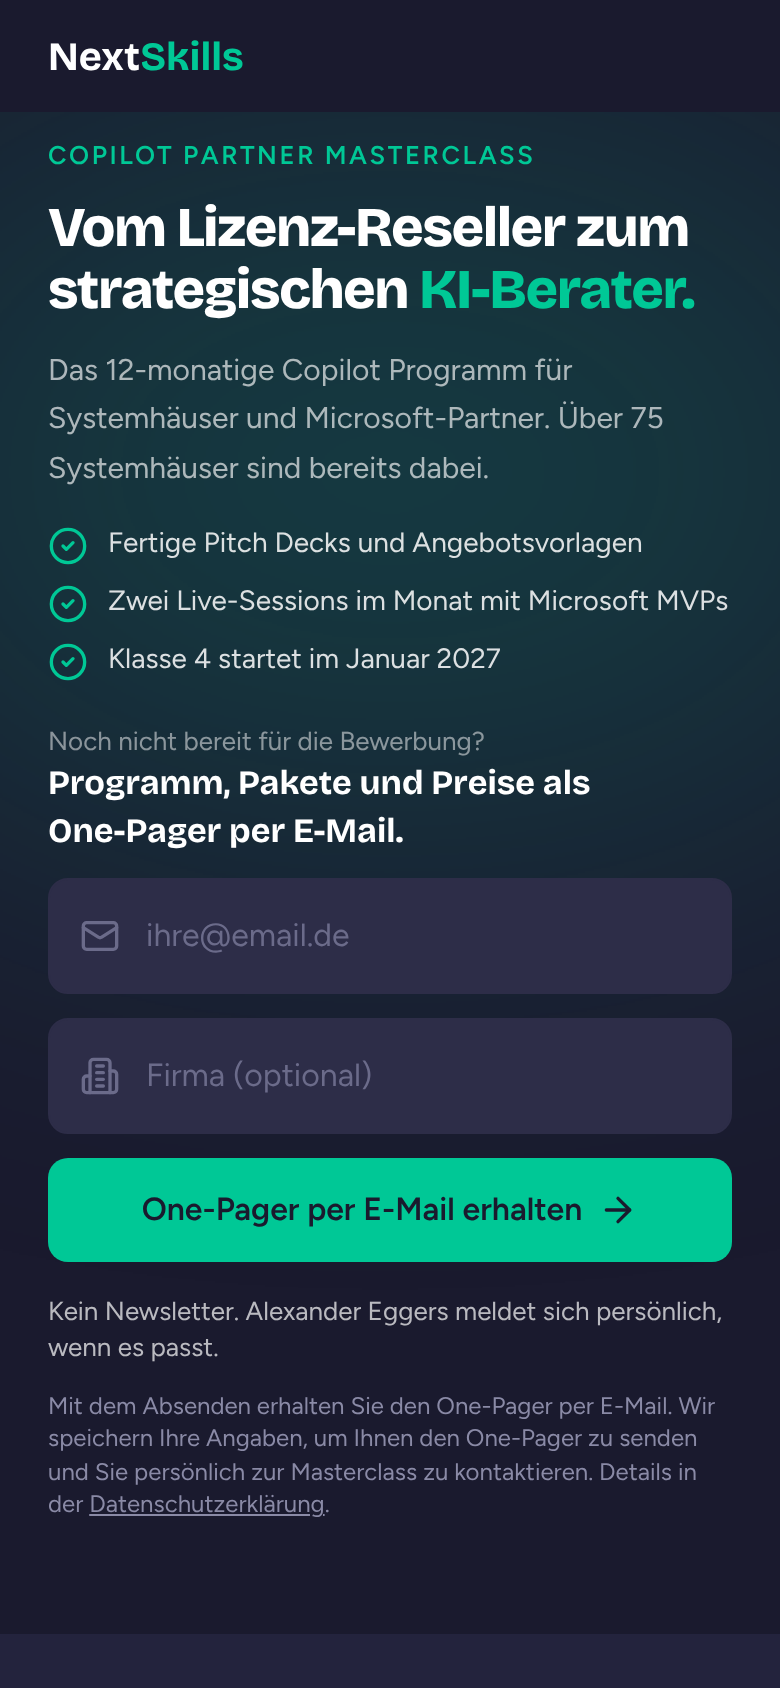
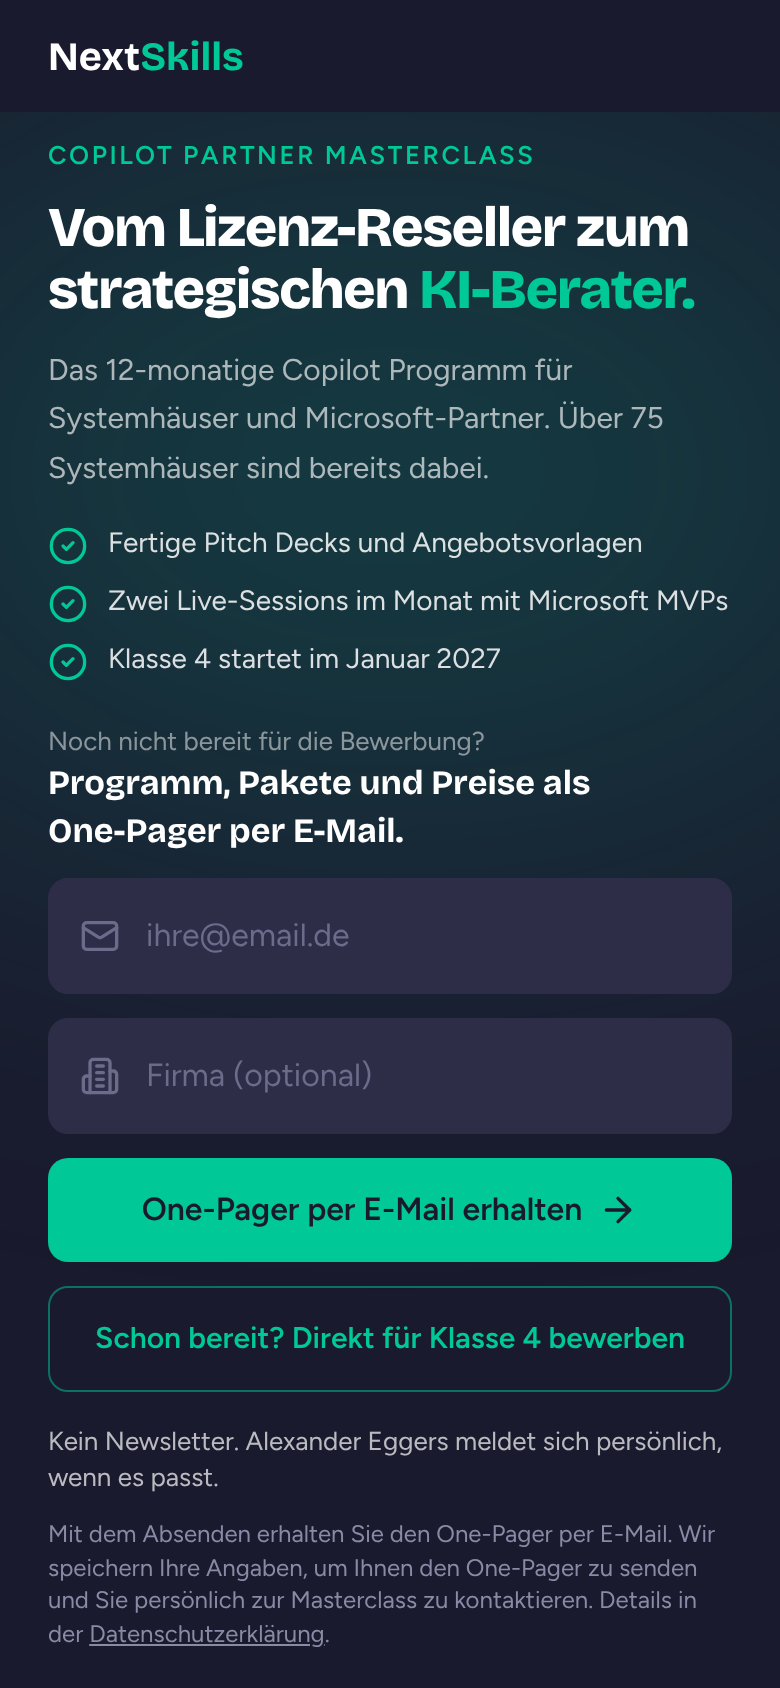
LinkedIn-Landingpage: Direkt bewerben, Video-Reihenfolge, Abstand (#195)
- Zweiter Button "Schon bereit? Direkt für Klasse 4 bewerben" im selben
  Formular. /api/onepager mit aktion "bewerbung": Lead NEW/LINKEDIN bzw.
  Aktivität beim bestehenden Lead, Bestätigungsmail mit One-Pager,
  Weiterleitung auf /danke. Kein Webhook, keine Wartelisten-Sequenz.
  Funktioniert auch, wenn vorher der One-Pager angefordert wurde.
- Partnervideos auf /linkedin: Florian, Josef, Marvin, Daniel
- Mobile Scroller (Videos, Zitate) mit scroll-padding, das erste Element
  klebt nicht mehr am Rand

Claude-Session: https://claude.ai/code/session_01KjWz2zSiyGJrSKAx8ae96R

Changed region(s): [[0.0615, 0.7701, 0.9231, 0.9858]]

diff --git a/app/linkedin/LinkedInLanding.tsx b/app/linkedin/LinkedInLanding.tsx
@@ -13,9 +13,17 @@ const TERMIN_BUCHEN_URL =
 
 const HEADING_FONT = { fontFamily: "'Bricolage Grotesque', sans-serif" };
 
+// Reihenfolge der Partnervideos auf dieser Seite (Startseite bleibt unverändert).
+const VIDEO_REIHENFOLGE = ["florian-melber", "josef-haider", "marvin-nitschke", "daniel-schwanitz"];
+const VIDEOS = [...PARTNER_VIDEOS].sort(
+  (a, b) => VIDEO_REIHENFOLGE.indexOf(a.slug) - VIDEO_REIHENFOLGE.indexOf(b.slug)
+);
+
+type Aktion = "onepager" | "bewerbung";
+
 type FormState =
   | { status: "idle" }
-  | { status: "loading" }
+  | { status: "loading"; aktion: Aktion }
   | { status: "error"; message: string }
   | { status: "success"; email: string };
 
@@ -79,20 +87,27 @@ export default function LinkedInLanding({ klasseName, startMonat, partnerCount }
     const emailValue = String(data.get("email") ?? email).trim();
     const firmaValue = String(data.get("firma") ?? firma).trim();
     const website = String(data.get("website") ?? "");
+    // Welcher der beiden Buttons gedrückt wurde. Enter im Feld nimmt den ersten (One-Pager).
+    const submitter = (e.nativeEvent as SubmitEvent).submitter;
+    const aktion: Aktion = submitter?.getAttribute("value") === "bewerbung" ? "bewerbung" : "onepager";
     if (!emailValue) {
       setFormState({ status: "error", message: "Bitte geben Sie Ihre E-Mail-Adresse ein." });
       return;
     }
     setEmail(emailValue);
     setFirma(firmaValue);
-    setFormState({ status: "loading" });
+    setFormState({ status: "loading", aktion });
 
     try {
       const response = await fetch("/api/onepager", {
         method: "POST",
         headers: { "Content-Type": "application/json" },
-        body: JSON.stringify({ email: emailValue, firma: firmaValue, website, ...(getUtmData() ?? {}) }),
+        body: JSON.stringify({ email: emailValue, firma: firmaValue, website, aktion, ...(getUtmData() ?? {}) }),
       });
+      if (response.ok && aktion === "bewerbung") {
+        window.location.href = "/danke";
+        return;
+      }
       if (response.ok) {
         setFormState({ status: "success", email: emailValue.toLowerCase() });
         return;
@@ -142,6 +157,9 @@ export default function LinkedInLanding({ klasseName, startMonat, partnerCount }
     }
 
     const loading = formState.status === "loading";
+    const spinner = (
+      <div className="w-5 h-5 border-2 border-current border-t-transparent rounded-full animate-spin" />
+    );
     return (
       <form onSubmit={handleSubmit} className="space-y-3 text-left">
         <div className="relative">
@@ -181,17 +199,27 @@ export default function LinkedInLanding({ klasseName, startMonat, partnerCount }
           <label htmlFor={`${id}-website`}>Website</label>
           <input id={`${id}-website`} type="text" name="website" tabIndex={-1} autoComplete="off" defaultValue="" />
         </div>
-        <button type="submit" disabled={loading} className="btn-primary w-full">
-          {loading ? (
-            <>
-              <div className="w-5 h-5 border-2 border-[#1A1A2E]/30 border-t-[#1A1A2E] rounded-full animate-spin" />
-              Wird gesendet...
-            </>
+        <button type="submit" name="aktion" value="onepager" disabled={loading} className="btn-primary w-full">
+          {formState.status === "loading" && formState.aktion === "onepager" ? (
+            <>{spinner} Wird gesendet...</>
           ) : (
             <>
               One-Pager per E-Mail erhalten
               <ArrowRight className="w-5 h-5" />
             </>
+          )}
+        </button>
+        <button
+          type="submit"
+          name="aktion"
+          value="bewerbung"
+          disabled={loading}
+          className="w-full inline-flex items-center justify-center gap-2 px-4 py-3.5 rounded-[10px] border border-[#00C896]/50 text-[#00C896] text-[15px] font-semibold hover:bg-[#00C896]/10 transition-colors disabled:opacity-50"
+        >
+          {formState.status === "loading" && formState.aktion === "bewerbung" ? (
+            <>{spinner} Wird gesendet...</>
+          ) : (
+            <>Schon bereit? Direkt für {klasseName} bewerben</>
           )}
         </button>
 
@@ -281,8 +309,8 @@ export default function LinkedInLanding({ klasseName, startMonat, partnerCount }
           <p className="text-white/60 mb-8">Vier Systemhäuser aus den ersten beiden Klassen. Jeweils unter einer Minute.</p>
 
           {/* Mobil wischbar, Desktop vier Spalten. preload="none": Video lädt erst beim Tippen. */}
-          <div className="-mx-6 px-6 md:mx-0 md:px-0 flex md:grid md:grid-cols-4 gap-4 overflow-x-auto snap-x snap-mandatory pb-2 [scrollbar-width:none]">
-            {PARTNER_VIDEOS.map((v) => (
+          <div className="-mx-6 px-6 md:mx-0 md:px-0 flex md:grid md:grid-cols-4 gap-4 overflow-x-auto snap-x snap-mandatory scroll-px-6 md:scroll-px-0 pb-2 [scrollbar-width:none]">
+            {VIDEOS.map((v) => (
               <figure key={v.slug} className="snap-start shrink-0 w-[78%] sm:w-[45%] md:w-auto flex flex-col gap-3">
                 <video
                   className="w-full aspect-square rounded-[14px] border border-white/10 bg-black"
@@ -326,7 +354,7 @@ export default function LinkedInLanding({ klasseName, startMonat, partnerCount }
             </figcaption>
           </figure>
 
-          <div className="-mx-6 px-6 md:mx-0 md:px-0 flex md:grid md:grid-cols-3 gap-4 overflow-x-auto snap-x snap-mandatory pb-2 [scrollbar-width:none]">
+          <div className="-mx-6 px-6 md:mx-0 md:px-0 flex md:grid md:grid-cols-3 gap-4 overflow-x-auto snap-x snap-mandatory scroll-px-6 md:scroll-px-0 pb-2 [scrollbar-width:none]">
             {STIMMEN.map((s) => (
               <figure
                 key={s.name}

diff --git a/lib/email/onePager.ts b/lib/email/onePager.ts
@@ -11,7 +11,35 @@ import { sendEmail, type SendEmailResult } from "@/lib/email/resend";
 
 const ANHANG_DATEINAME = "Copilot-Masterclass-One-Pager.pdf";
 
-export const ONEPAGER_BETREFF = "Ihr One-Pager zur Copilot Partner Masterclass";
+export type OnePagerAnlass = "onepager" | "bewerbung";
+
+const VARIANTEN: Record<OnePagerAnlass, { betreff: string; absaetze: string[]; grund: string; templateKey: string }> = {
+  onepager: {
+    betreff: "Ihr One-Pager zur Copilot Partner Masterclass",
+    absaetze: [
+      "anbei der One-Pager zur Copilot Partner Masterclass mit Programm, Paketen und Preisen.",
+      "Wenn Sie nach dem Lesen Fragen haben oder prüfen möchten, ob das Programm zu Ihrem Systemhaus passt, antworten Sie einfach auf diese E-Mail. Die Antwort landet direkt bei mir.",
+    ],
+    grund: "den One-Pager angefordert",
+    templateKey: "linkedin_onepager",
+  },
+  // Bestätigung für Bewerbungen über /linkedin. Ersetzt die Bestätigung, die
+  // sonst aus der Wartelisten-Sequenz kommt (die hier bewusst nicht läuft).
+  bewerbung: {
+    betreff: "Ihre Bewerbung für die Copilot Partner Masterclass",
+    absaetze: [
+      "vielen Dank für Ihre Bewerbung für die Copilot Partner Masterclass. Ich melde mich innerhalb von 48 Stunden persönlich bei Ihnen.",
+      "Anbei finden Sie schon einmal den One-Pager mit Programm, Paketen und Preisen.",
+      "Wenn Sie vorher Fragen haben, antworten Sie einfach auf diese E-Mail. Die Antwort landet direkt bei mir.",
+    ],
+    grund: "sich für die Copilot Partner Masterclass beworben",
+    templateKey: "linkedin_bewerbung",
+  },
+};
+
+export function onePagerBetreff(anlass: OnePagerAnlass): string {
+  return VARIANTEN[anlass].betreff;
+}
 
 async function loadOnePager(): Promise<{ filename: string; content: Buffer } | null> {
   const dir = path.join(process.cwd(), "public", "dokumente");
@@ -25,35 +53,36 @@ async function loadOnePager(): Promise<{ filename: string; content: Buffer } | n
   }
 }
 
-function buildHtml(): string {
+function buildHtml(anlass: OnePagerAnlass): string {
+  const v = VARIANTEN[anlass];
   const p = 'style="margin:0 0 12px;color:#1A1A2E;font-size:16px;line-height:1.6"';
+  const absaetze = v.absaetze.map((t) => `<p ${p}>${t}</p>`).join("\n      ");
   return `<!doctype html>
 <html lang="de"><body style="margin:0;background:#E8E8F0;font-family:Figtree,system-ui,-apple-system,sans-serif">
   <div style="max-width:560px;margin:0 auto;padding:24px 16px">
     <div style="background:#FFFFFF;border-radius:12px;padding:28px 24px">
       <p style="margin:0 0 16px;font-size:12px;letter-spacing:.1em;text-transform:uppercase;color:#00C896;font-weight:700">Copilot Partner Masterclass</p>
       <p ${p}>Guten Tag,</p>
-      <p ${p}>anbei der One-Pager zur Copilot Partner Masterclass mit Programm, Paketen und Preisen.</p>
-      <p style="margin:0 0 20px;color:#1A1A2E;font-size:16px;line-height:1.6">Wenn Sie nach dem Lesen Fragen haben oder prüfen möchten, ob das Programm zu Ihrem Systemhaus passt, antworten Sie einfach auf diese E-Mail. Die Antwort landet direkt bei mir.</p>
-      <p style="margin:0;color:#1A1A2E;font-size:16px;line-height:1.6">Viele Grüße<br>Alexander Eggers<br><span style="color:#6B6B8A">NextSkills GmbH</span></p>
+      ${absaetze}
+      <p style="margin:8px 0 0;color:#1A1A2E;font-size:16px;line-height:1.6">Viele Grüße<br>Alexander Eggers<br><span style="color:#6B6B8A">NextSkills GmbH</span></p>
     </div>
-    <p style="margin:12px 0 0;font-size:12px;color:#6B6B8A">Sie bekommen diese E-Mail, weil Sie auf copilotberater.de den One-Pager angefordert haben. NextSkills GmbH &middot; <a href="https://www.copilotberater.de" style="color:#00a87e;text-decoration:none">copilotberater.de</a></p>
+    <p style="margin:12px 0 0;font-size:12px;color:#6B6B8A">Sie bekommen diese E-Mail, weil Sie auf copilotberater.de ${v.grund} haben. NextSkills GmbH &middot; <a href="https://www.copilotberater.de" style="color:#00a87e;text-decoration:none">copilotberater.de</a></p>
   </div>
 </body></html>`;
 }
 
 /** Versendet den One-Pager als PDF-Anhang über Resend. Wirft nicht. */
-export async function sendOnePagerEmail(to: string): Promise<SendEmailResult> {
+export async function sendOnePagerEmail(to: string, anlass: OnePagerAnlass = "onepager"): Promise<SendEmailResult> {
   const anhang = await loadOnePager();
   if (!anhang) {
     return { ok: false, error: "One-Pager fehlt (public/dokumente/onepager.pdf)." };
   }
   return sendEmail({
     to,
-    subject: ONEPAGER_BETREFF,
-    html: buildHtml(),
+    subject: VARIANTEN[anlass].betreff,
+    html: buildHtml(anlass),
     replyTo: process.env.FIRST_CALL_REPLY_TO || undefined,
-    templateKey: "linkedin_onepager",
+    templateKey: VARIANTEN[anlass].templateKey,
     attachments: [anhang],
   });
 }

diff --git a/app/api/onepager/route.ts b/app/api/onepager/route.ts
@@ -2,9 +2,10 @@ import { NextRequest, NextResponse } from "next/server";
 import { LeadSource } from "@prisma/client";
 import { prisma } from "@/lib/prisma";
 import { checkRateLimit } from "@/lib/rate-limit";
-import { ONEPAGER_BETREFF, sendOnePagerEmail } from "@/lib/email/onePager";
+import { onePagerBetreff, sendOnePagerEmail, type OnePagerAnlass } from "@/lib/email/onePager";
 
-// One-Pager-Anforderung der LinkedIn-Landingpage (/linkedin).
+// One-Pager-Anforderung und Bewerbung der LinkedIn-Landingpage (/linkedin).
+// Beides läuft über dasselbe Formular, `aktion: "bewerbung"` unterscheidet.
 //
 // Legt einen Lead mit Status NEW an (Quelle aus utm_source wie bei
 // /api/waitlist) oder ergänzt beim bestehenden Lead nur eine Aktivität,
@@ -82,6 +83,7 @@ export async function POST(request: NextRequest) {
       );
     }
     const firma = truncate(body.firma, 160);
+    const anlass: OnePagerAnlass = body.aktion === "bewerbung" ? "bewerbung" : "onepager";
 
     const utmSource = truncate(body.utm_source, 100);
     const utmMedium = truncate(body.utm_medium, 100);
@@ -132,27 +134,39 @@ export async function POST(request: NextRequest) {
         leadId,
         type: "NOTE",
         content:
-          `One-Pager über LinkedIn-Landingpage angefordert (utm_content=${utmContent ?? "leer"})` +
+          (anlass === "bewerbung"
+            ? `Bewerbung über LinkedIn-Landingpage (utm_content=${utmContent ?? "leer"})`
+            : `One-Pager über LinkedIn-Landingpage angefordert (utm_content=${utmContent ?? "leer"})`) +
           (existing && firma ? `\nAngegebene Firma: ${firma}` : ""),
       },
     });
 
-    const mail = await sendOnePagerEmail(email);
+    const mail = await sendOnePagerEmail(email, anlass);
 
     if (!mail.ok) {
-      console.error("[onepager] Versand fehlgeschlagen:", mail.error);
+      console.error(`[onepager] Versand (${anlass}) fehlgeschlagen:`, mail.error);
       await prisma.leadActivity.create({
         data: {
           leadId,
           type: "EMAIL",
-          content: `One-Pager-Mail fehlgeschlagen${mail.error ? `: ${mail.error}` : ""}`,
+          content:
+            (anlass === "bewerbung" ? "Bewerbungs-Bestätigung fehlgeschlagen" : "One-Pager-Mail fehlgeschlagen") +
+            (mail.error ? `: ${mail.error}` : ""),
         },
       });
+      // Die Bewerbung ist trotzdem im CRM, Alex meldet sich ohnehin persönlich.
+      if (anlass === "bewerbung") return NextResponse.json({ success: true }, { status: 201 });
       return NextResponse.json({ error: FEHLER_TEXT }, { status: 502 });
     }
 
     await prisma.leadActivity.create({
-      data: { leadId, type: "EMAIL", content: `One-Pager-Mail versendet: ${ONEPAGER_BETREFF}` },
+      data: {
+        leadId,
+        type: "EMAIL",
+        content:
+          (anlass === "bewerbung" ? "Bewerbungs-Bestätigung versendet: " : "One-Pager-Mail versendet: ") +
+          onePagerBetreff(anlass),
+      },
     });
 
     return NextResponse.json({ success: true }, { status: 201 });
